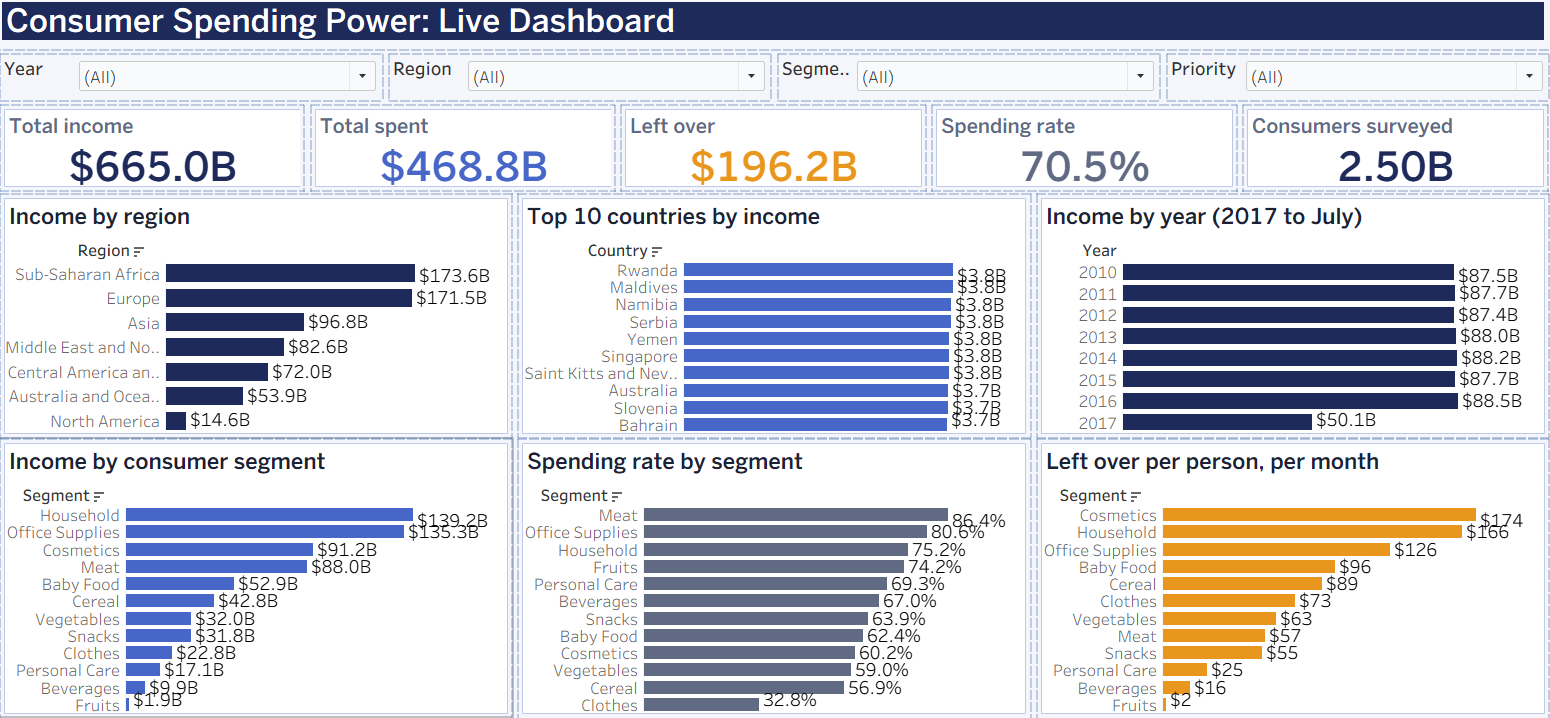
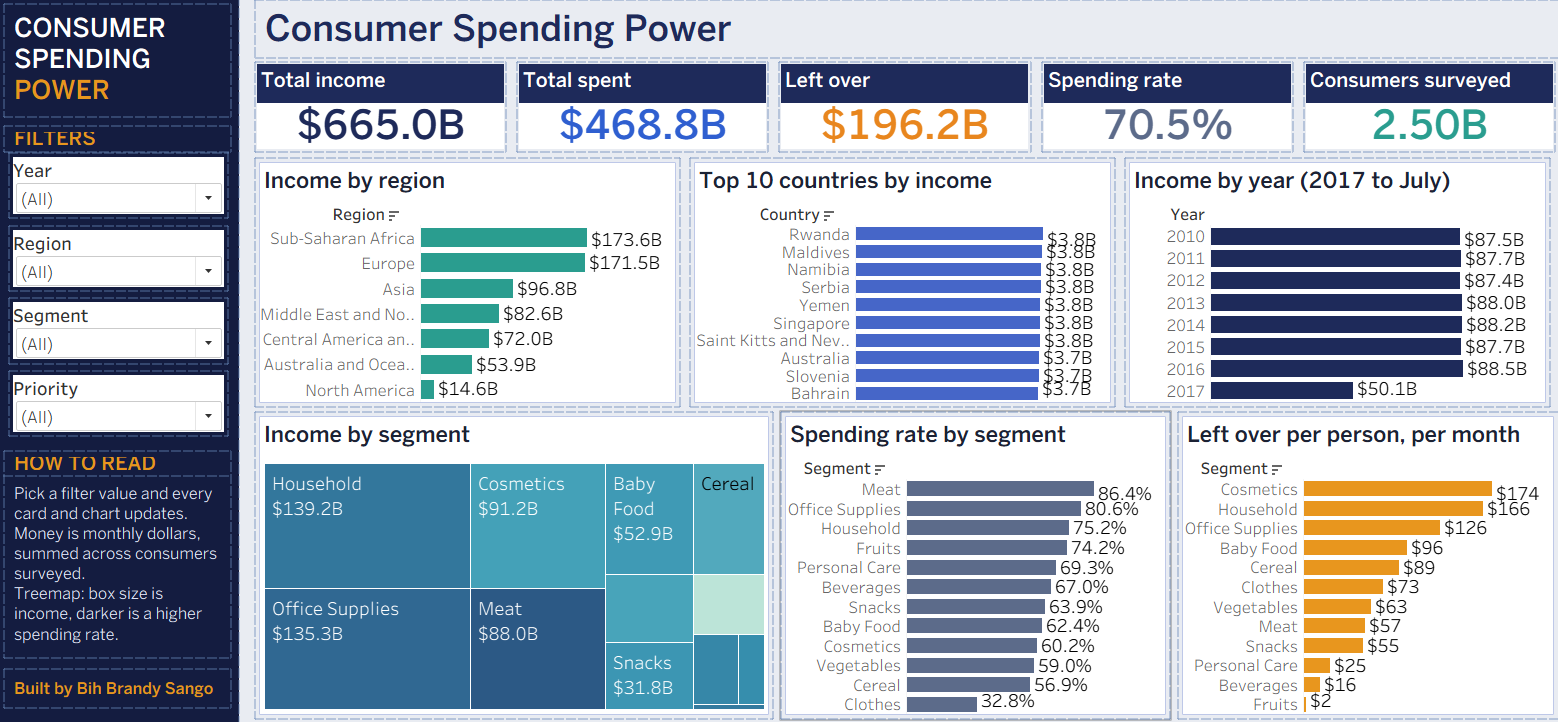
Restyle dashboard with sidebar layout and treemap

diff --git a/README.md b/README.md
@@ -53,7 +53,7 @@ CredPal is a consumer credit company. Before it decides which markets and produc
 
 ## The dashboard
 
-The Dashboard page has four filters (Year, Region, Segment, Priority), five KPI cards and six charts. Every filter applies to every chart.
+The Dashboard page has a navy sidebar with four filters (Year, Region, Segment, Priority) and a short reading guide, five KPI cards, and six charts, including a treemap of income by segment shaded by spending rate. Every filter applies to every card and chart.
 
 ![Dashboard page](docs/dashboard.png)
 
